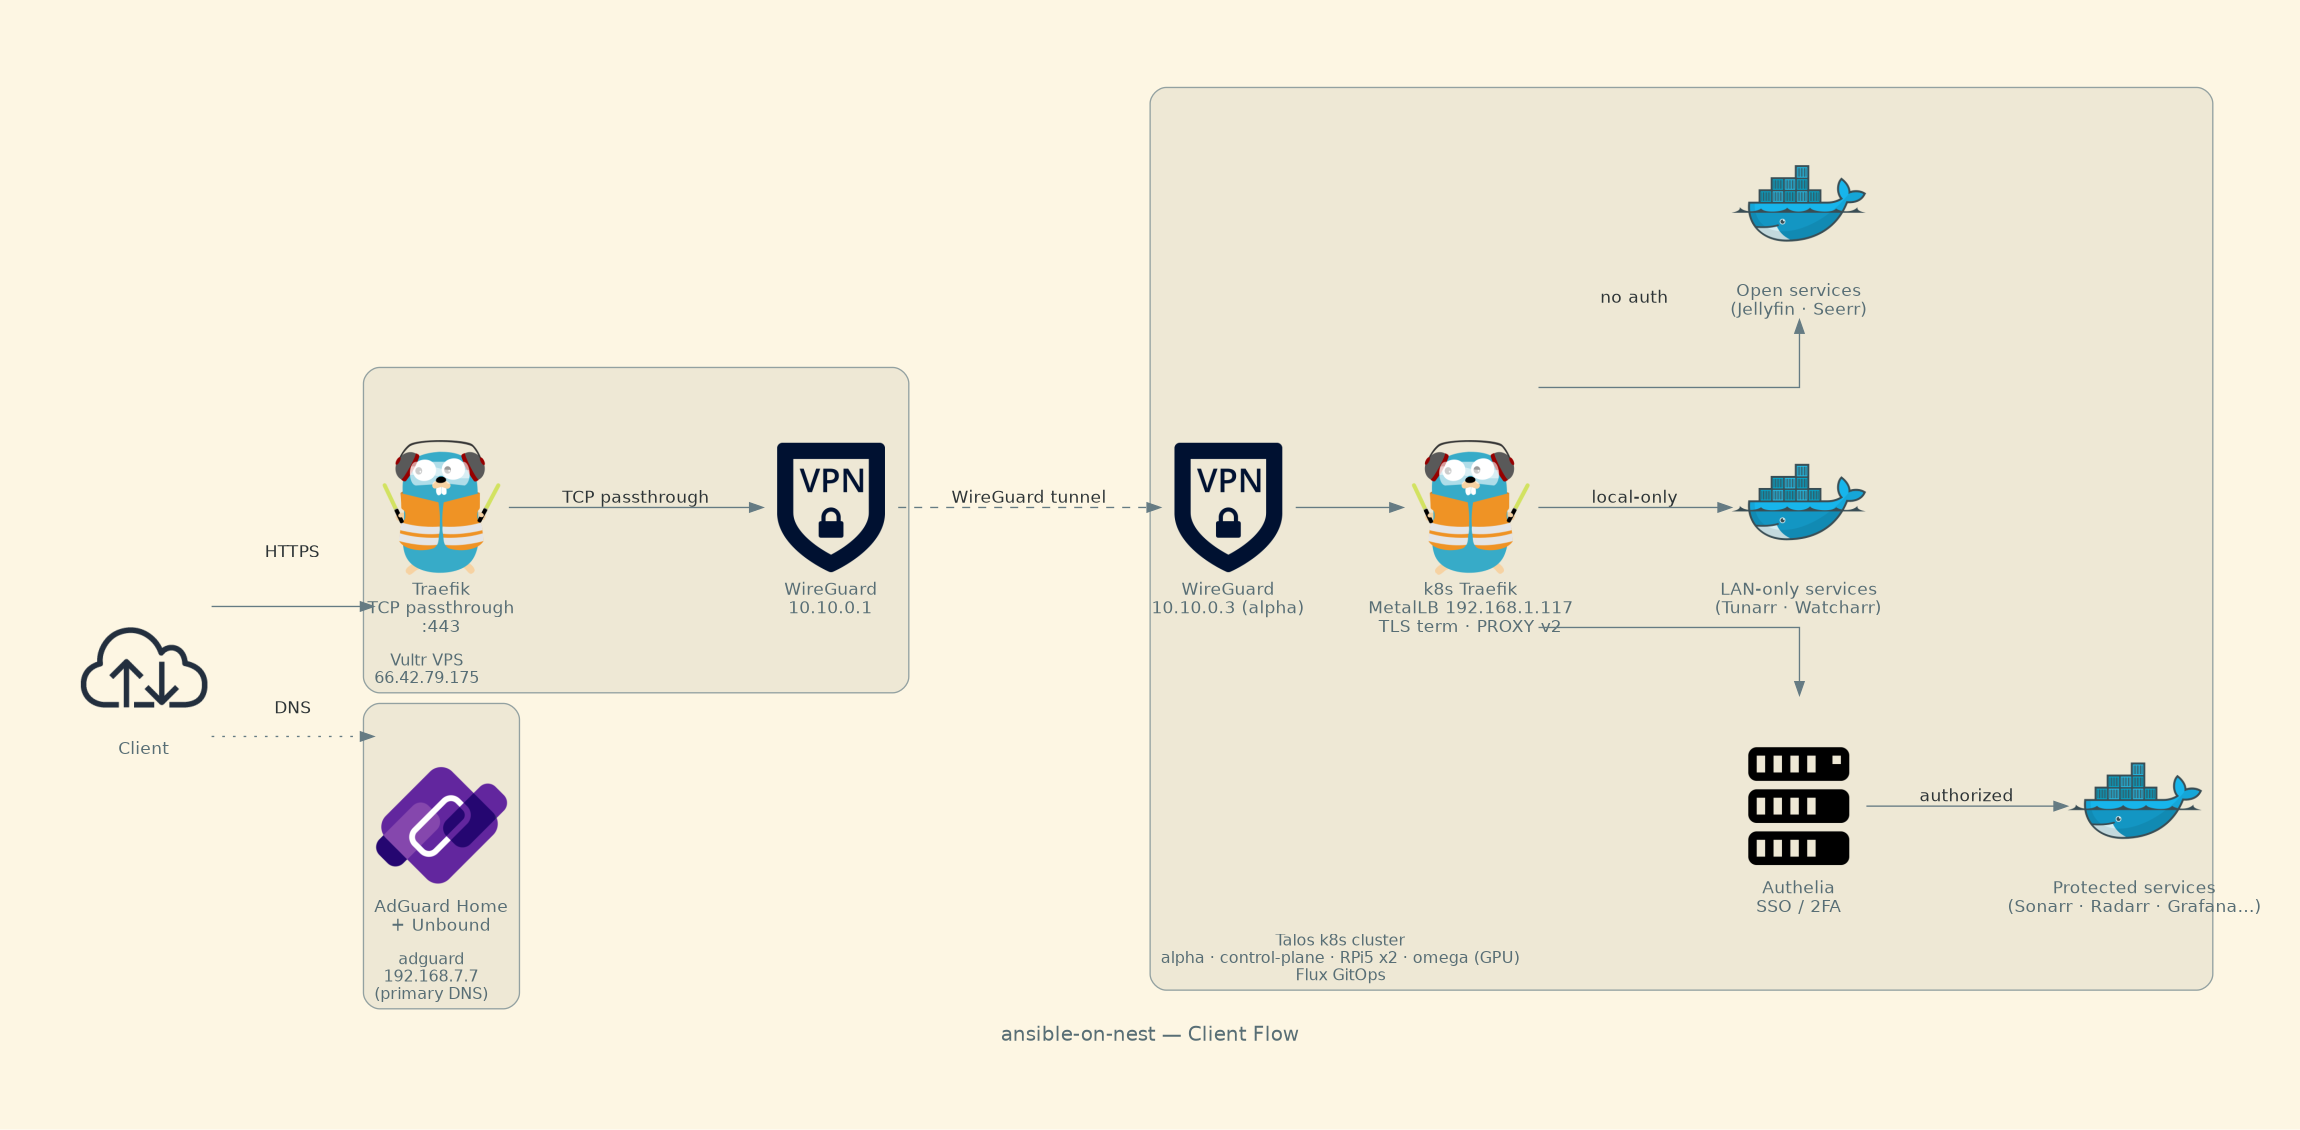
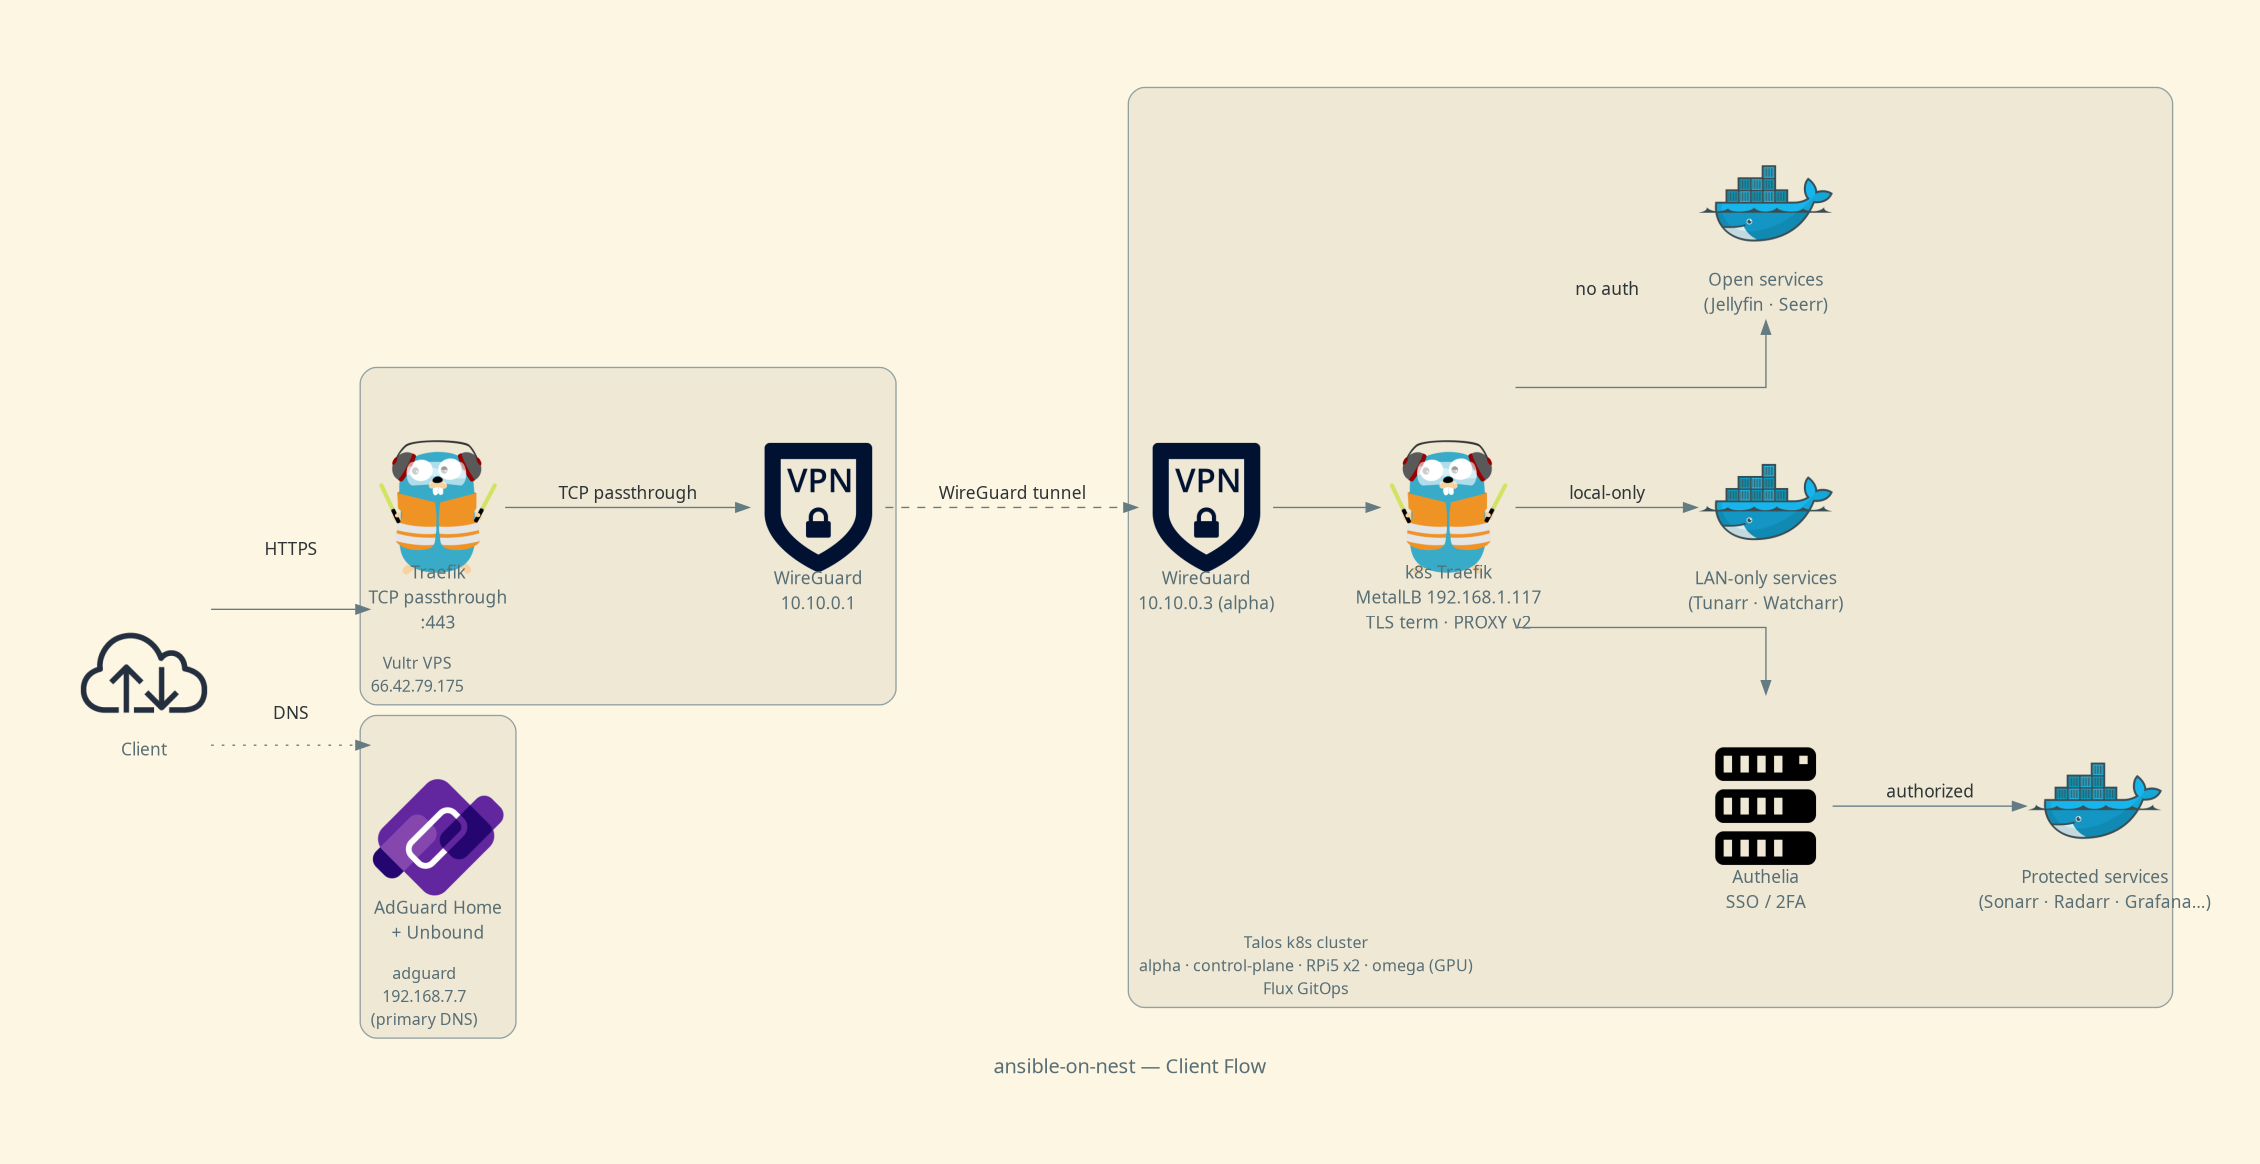
docs: label networks by VLAN/role and move nest-mcp docs to k8s
Refer to UniFi networks by VLAN ID and generic role instead of SSID
names, since the repo is public. nest-mcp's LXC 109 is gone; describe
the k8s HelmRelease deployment, auth and CI instead, and drop the LXC
from the host tables, Loki sources, site.yml list, DR inventory and
the architecture diagram (regenerated).

diff --git a/scripts/generate_diagram.py b/scripts/generate_diagram.py
@@ -162,6 +162,7 @@ def generate_full(hosts: dict, lxcs: dict, out_dir: Path, fmt: str) -> None:
                          graph_attr=CLUSTER_INNER):
                 nest_traefik = Traefik("k8s Traefik\n+ Authelia")
                 Docker("app-template\nHelmReleases\n(Sonarr · Radarr\nJellyfin…)")
+                Server("nest-mcp :8765")
 
             with Cluster(lxc_label("monitoring", hosts, lxcs), graph_attr=CLUSTER):
                 Prometheus("Prometheus")
@@ -179,9 +180,6 @@ def generate_full(hosts: dict, lxcs: dict, out_dir: Path, fmt: str) -> None:
 
             with Cluster(lxc_label("dns-secondary", hosts, lxcs), graph_attr=CLUSTER):
                 adguard2 = Coredns("AdGuard Home\n(secondary) + Unbound")
-
-            with Cluster(lxc_label("mcp", hosts, lxcs), graph_attr=CLUSTER):
-                Server("nest-mcp :8765")
 
             with Cluster(lxc_label("ci", hosts, lxcs), graph_attr=CLUSTER):
                 Server("Actions runner\n(deploy)")

diff --git a/docs/design.md b/docs/design.md
@@ -39,7 +39,6 @@ The Pi lives on VLAN 7. PVE and all LXCs are on the main LAN (192.168.1.x). Home
 | 105 | monitoring | 192.168.1.44 (static) | Prometheus · Grafana · Loki · Alertmanager |
 | 106 | dns-secondary | 192.168.7.8 (VLAN 7, static) | AdGuard Home + Unbound (secondary DNS) |
 | 108 | ci | 192.168.1.18 (static) | GitHub Actions self-hosted runner |
-| 109 | mcp | 192.168.1.19 (static) | Nest MCP HTTP server (port 8765) |
 | 111 | foundry | 192.168.1.21 (static) | FoundryVTT game server |
 
 ### VMs (Proxmox)
@@ -98,25 +97,25 @@ in nftables mode does not serve NodePorts on it), `192.168.1.116` MetalLB metric
 
 VLANs, SSIDs and zone-based firewall rules live in the UniFi controller UI (not IaC, see
 [What Is Not Managed by IaC](#what-is-not-managed-by-iac)); nest-mcp's `unifi_*` tools read
-them live.
+them live. Networks are referred to here by VLAN and role, not SSID.
 
-| Zone | Subnet | What lives there | Egress |
+| Network | Subnet | What lives there | Egress |
 |---|---|---|---|
-| Internal | 192.168.1.0/24 | PVE, LXCs, Talos nodes, trusted clients | Internet; may reach IoT and Infra |
-| Infra | 192.168.7.0/24 (VLAN 7) | Primary/secondary AdGuard | Internet; may reach Internal monitoring |
-| IoT | 192.168.4.0/24 (VLAN 4) | Home Assistant, ESPHome devices, speakers, TV | Per-device groups: internet / local-only / none; may reach Internal monitoring; DNS via gateway (encrypted DNS only to Infra) |
-| CheapSlop | 192.168.8.0/24 | Cloud-dependent consumer IoT that won't onboard on the IoT SSID | Internet only; no rules to any other zone |
-| Work | 192.168.3.0/24 | Work devices | Internet, gateway, AdGuard DNS |
+| Main LAN (untagged) | 192.168.1.0/24 | PVE, LXCs, Talos nodes, trusted clients | Internet; may reach IoT and Infra |
+| Work (VLAN 3) | 192.168.3.0/24 | Work devices | Internet, gateway, AdGuard DNS |
+| IoT (VLAN 4) | 192.168.4.0/24 | Home Assistant, ESPHome devices, speakers, TV | Per-device groups: internet / local-only / none; may reach Main LAN monitoring; DNS via gateway (encrypted DNS only to Infra) |
+| Infra (VLAN 7) | 192.168.7.0/24 | Primary/secondary AdGuard | Internet; may reach Main LAN monitoring |
+| Cloud IoT (VLAN 8) | 192.168.8.0/24 | Cloud-dependent consumer devices that won't onboard on the IoT SSID | Internet only; no rules to any other zone |
 
-**CheapSlop** (zone, network and SSID all share the name) exists because cheap
+**Cloud IoT (VLAN 8)** has its own zone, network and SSID. It exists because cheap
 cloud-onboarded devices fail to pair on the IoT SSID and report it as "wrong password".
 Its SSID uses the lowest-common-denominator settings: 2.4 GHz only, WPA2-only, PMF
 disabled, and an alphanumeric SSID and passphrase. Known failure modes: WPA2/WPA3
 transition mode (the device joins, sends nothing, and drops), and spaces or special
-characters in the SSID or passphrase. Its only custom rule is `Allow CheapSlop To
-Internet`. It is treated as untrusted: nothing may reach Internal or IoT, and Home
-Assistant talks to these devices through their vendor cloud rather than locally. First
-occupant: a Winix air purifier, which reaches HA through the HACS
+characters in the SSID or passphrase. Its only custom rule allows it out to the internet.
+It is treated as untrusted: nothing may reach the Main LAN or IoT, and Home Assistant
+talks to these devices through their vendor cloud rather than locally. First occupant: a
+Winix air purifier, which reaches HA through the HACS
 [`iprak/winix`](https://github.com/iprak/winix) integration using a second Winix account
 with the device shared to it, because Winix allows one session per account.
 
@@ -181,7 +180,7 @@ Trusts PROXY protocol from `10.10.0.1/32`. Rate-limit middleware applied globall
 Uses the `kubernetesCRD` provider — routes are defined as `IngressRoute` CRDs; no Docker socket.
 
 Routes to k8s services within the cluster or to `ExternalName` services for non-k8s targets
-(Proxmox, PBS, monitoring, scrutiny, torrent, foundry, glances, backlight, mcp).
+(Proxmox, PBS, monitoring, scrutiny, torrent, foundry, glances, backlight).
 
 Access logs written as JSON to stdout; shipped to Loki by the k8s Alloy DaemonSet
 with `job="traefik-access"` and parsed `router`/`status` labels.
@@ -375,7 +374,6 @@ Retention is 30 days. The Loki Ruler evaluates log-based alert rules and sends t
 | scrutiny | `docker`, `journal` |
 | dns-secondary | `docker` (adguard-exporter), `journal` |
 | fileserver | `journal` |
-| mcp | `journal` |
 | pbs | `journal` |
 | pve | `journal` |
 | ci | `journal` |
@@ -420,16 +418,26 @@ Grafana Alloy config at `/etc/alloy/config.alloy`. Logs ship to `192.168.1.44:31
 
 ---
 
-## MCP Server (LXC 109)
+## MCP Server (k8s)
 
 `nest-mcp` is an HTTP MCP server exposing live homelab state to AI assistants (Claude Code).
-Runs on port 8765, exposed externally at `https://mcp.arishaig.site` behind Authelia OIDC.
+It runs in the Talos cluster as a bjw-s app-template HelmRelease
+(`k8s/apps/nest-mcp/`): 3 replicas, multi-arch image `ghcr.io/arishaig/nest-mcp:latest`,
+port 8765, exposed at `https://mcp.arishaig.site` via an IngressRoute. There is no
+Authelia forwardAuth layer; the server validates Authelia-issued OIDC bearer JWTs itself.
+Secrets come from `nest-mcp-secrets` and `nest-mcp-ssh-key` (created by
+`playbooks/provision/k8s.yml`); in-cluster access uses the read-only `nest-mcp`
+ServiceAccount from `k8s/apps/mcp-rbac/`. Deploys: `build-mcp` pushes the image and
+`deploy-mcp` does a rollout restart when `mcp/**` changes. The old LXC 109 deployment has
+been torn down.
 
-Tools cover: Proxmox (VMs/LXCs/tasks/snapshots), PBS backups, Docker (containers/logs),
-Home Assistant entities, UniFi (clients/devices/firewall), AdGuard (rewrites/query log/stats),
-Prometheus (queries/alerts/targets), Loki (log queries), Jellyfin, *arr stack, Mealie,
-Jellyseerr, Scrutiny, seedbox, VPS (nftables/fail2ban/WireGuard/Vultr), and a `lab_health_summary`
-tool that gives a full live snapshot of the homelab in one call.
+Tools cover: Proxmox (VMs/LXCs/tasks/snapshots/storage), PBS backups, Kubernetes
+(pods/events/nodes/logs), Traefik routes, ZFS ARC and NFS, Docker (containers/logs),
+Home Assistant (entities, areas, automations), UniFi (clients/devices/firewall/WLANs),
+AdGuard (rewrites/query log/stats), Prometheus (queries/alerts/targets), Loki (log
+queries), Jellyfin, *arr stack, Mealie, Jellyseerr, Scrutiny, seedbox, VPS
+(nftables/fail2ban/WireGuard/Vultr), and a `lab_health_summary` tool that gives a full
+live snapshot of the homelab in one call.
 
 ---
 
@@ -489,7 +497,7 @@ Secrets: `inventory/group_vars/all/vault.yml` (ansible-vault, password in `~/.co
 
 `playbooks/site.yml` runs the full converge:
 1. `provision/common.yml` — node_exporter, BBR sysctl (all LXCs + VPS)
-2. Per-host provision playbooks (adguard, docker-host, vps, fileserver, monitoring, scrutiny, seedbox, pbs, nftables, mcp, foundry)
+2. Per-host provision playbooks (adguard, docker-host, vps, fileserver, monitoring, scrutiny, seedbox, pbs, nftables, foundry)
 3. `alloy.yml` — Grafana Alloy on all hosts
 4. `update-metrics.yml` (pending-update metrics) and `unattended-upgrades.yml` (daily Debian-Security upgrades, no reboots) on the LXCs and DNS Pis
 5. `update_apt.yml`, `update_docker.yml`, `update_proxmox.yml` (report-only unless `-e do_upgrade=true`)

diff --git a/docs/dependencies.md b/docs/dependencies.md
@@ -176,7 +176,7 @@ use the bjw-s `app-template` chart; cluster primitives use their official upstre
 | **Watchback** | — | Private (Isaac's own) | [arishaig/watchback](https://github.com/arishaig/watchback) |
 | **nest-mcp** | — | Private (Isaac's own) | this repo (`mcp/`) — homelab MCP server |
 
-> **nest-mcp** (LXC 109) is built on the [FastMCP / `mcp` Python SDK](https://github.com/modelcontextprotocol/python-sdk)
+> **nest-mcp** (k8s, `k8s/apps/nest-mcp/`) is built on the [FastMCP / `mcp` Python SDK](https://github.com/modelcontextprotocol/python-sdk)
 > (MIT, ✅ FOSS) and `httpx` (BSD-3); it exposes live homelab state to Claude Code. Its test suite
 > uses `pytest` + `pytest-asyncio` + `pytest-cov`, and `genbadge` for the committed coverage badge.
 
@@ -219,7 +219,6 @@ All LXCs receive the following via `playbooks/provision/common.yml`:
 | 105 | monitoring | Docker CE, Prometheus, Grafana, Loki, Alertmanager, cAdvisor, pve-exporter, speedtest-exporter, unpoller |
 | 106 | dns-secondary | AdGuard Home (install script), Unbound, unbound_exporter v0.6.0, Docker CE |
 | 108 | ci | GitHub Actions self-hosted runner (recovery-critical deploy jobs); OpenTofu, ansible venv, kustomize/kubeconform/kubectl/shellcheck |
-| 109 | mcp | nest-mcp HTTP server (FastMCP, port 8765), systemd unit |
 | 111 | foundry | FoundryVTT game server |
 
 ### Talos VMs (Kubernetes control plane)
@@ -329,7 +328,6 @@ Proxmox VE (192.168.1.16)
 │   └── AdGuard Home + Unbound
 │
 ├── LXC 108: ci   └── GitHub Actions self-hosted runner (deploy jobs)
-├── LXC 109: mcp  └── nest-mcp (FastMCP HTTP server :8765)
 ├── LXC 111: foundry └── FoundryVTT
 │
 ├── VM 107: homeassistant (VLAN 4)

diff --git a/docs/disaster-recovery.md b/docs/disaster-recovery.md
@@ -46,7 +46,7 @@ What follows from that decision:
 | `Tank/media_root` | The `media-nfs` PV and the Samba shares |
 | VM 500 `backup` (PBS) | The backup server itself |
 | VM 107 `homeassistant` | Home automation |
-| LXCs 102–111 | fileserver, scrutiny, seedbox, monitoring, mcp, runner |
+| LXCs 102–111 | fileserver, scrutiny, seedbox, monitoring, dns-secondary, runner, foundry |
 
 `talos-beta-rpi5` and `talos-gamma-rpi5` survive physically but are useless in
 isolation: no API server, no storage, no ingress.
